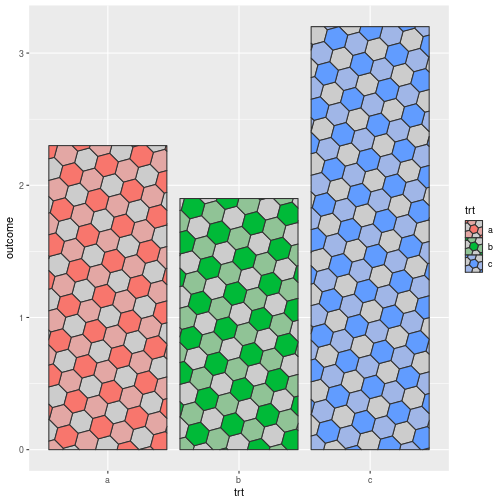
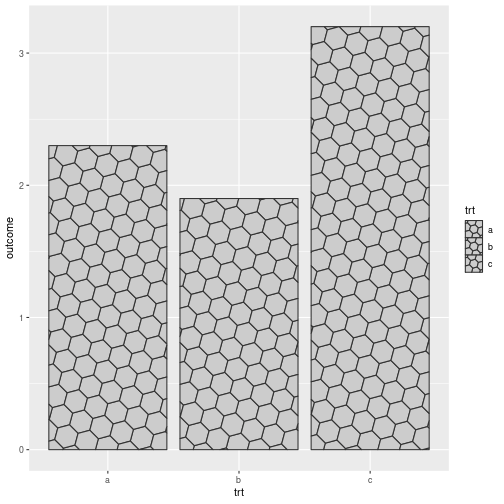
feat: Add 'text' pattern
* Assuming the right graphic devices should support making
  patterns with arbitrary Unicode glyphs
* Uses `clippingPathGrob()` to clip to boundary
* Since characters are not of uniform size within the same font
  much less between fonts do not attempt sensible "density" value
  but instead parameterize glyph sizes with "size"
  (interpreted as a ``textGrob`` "fontsize")

closes #42

Changed region(s): [[0.0893, 0.0298, 0.8631, 0.8929], [0.9226, 0.4167, 0.9524, 0.5357]]

diff --git a/README.md b/README.md
@@ -30,7 +30,7 @@ enhanced versions of the patterns originally contained within
     noise array patterns powered by the [ambient](https://cran.r-project.org/package=ambient) package
 2.  [circle](https://trevorldavis.com/R/gridpattern/dev/reference/grid.pattern_circle.html): circle geometry patterns
 3.  [crosshatch](https://trevorldavis.com/R/gridpattern/dev/reference/grid.pattern_crosshatch.html): crosshatch geometry patterns
-4.  [gradient](https://trevorldavis.com/R/gridpattern/dev/reference/grid.pattern_gradient.html): gradient array patterns
+4.  [gradient](https://trevorldavis.com/R/gridpattern/dev/reference/grid.pattern_gradient.html): gradient array/geometry patterns
 5.  [image](https://trevorldavis.com/R/gridpattern/dev/reference/grid.pattern_image.html): image array patterns
 6.  [magick](https://trevorldavis.com/R/gridpattern/dev/reference/grid.pattern_magick.html): imagemagick array patterns
 7.  none (equivalent to `grid::null()`)
@@ -40,9 +40,10 @@ enhanced versions of the patterns originally contained within
 11. [polygon_tiling](https://trevorldavis.com/R/gridpattern/dev/reference/grid.pattern_polygon_tiling.html): polygon tiling patterns
 12. [regular_polygon](https://trevorldavis.com/R/gridpattern/dev/reference/grid.pattern_regular_polygon.html): regular polygon geometry patterns
 13. [stripe](https://trevorldavis.com/R/gridpattern/dev/reference/grid.pattern_stripe.html): stripe geometry patterns
-14. [weave](https://trevorldavis.com/R/gridpattern/dev/reference/grid.pattern_weave.html): weave geometry patterns
-15. [custom ggpattern geometry-based patterns](https://coolbutuseless.github.io/package/ggpattern/articles/developing-patterns-2.html)
-16. [custom ggpattern array-based patterns](https://coolbutuseless.github.io/package/ggpattern/articles/developing-patterns-3.html)
+14. [text](https://trevorldavis.com/R/gridpattern/dev/reference/grid.pattern_text.html): text array/geometry patterns
+15. [weave](https://trevorldavis.com/R/gridpattern/dev/reference/grid.pattern_weave.html): weave geometry patterns
+16. [custom ggpattern geometry-based patterns](https://coolbutuseless.github.io/package/ggpattern/articles/developing-patterns-2.html)
+17. [custom ggpattern array-based patterns](https://coolbutuseless.github.io/package/ggpattern/articles/developing-patterns-3.html)
 
 ## <a name="installation">Installation</a>
 

diff --git a/NEWS.md b/NEWS.md
@@ -12,7 +12,11 @@ Breaking Changes
 New Features
 ------------
 
-* `names_pattern` is a character vector of supported (builtin) patterns.
+* Supports the following new pattern:
+
+  * "text" ``grid.pattern_text()`` (#40)
+
+* `names_pattern` is a new character vector of supported (builtin) patterns.
 * `clippingPathGrob()` is a function that clips one grob according to clipping path set by a second grob.
 
   * If `use_R4.1_clipping` is `TRUE` we simply use the new R 4.1 clipping path feature
